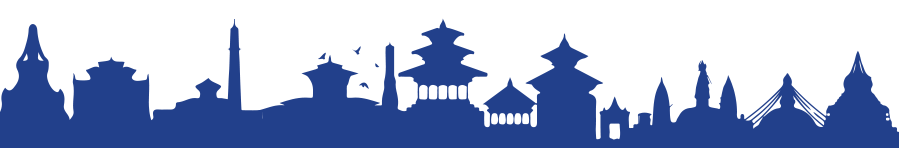
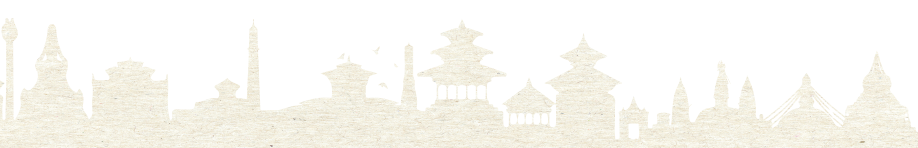
new added

diff --git a/manav_dharma/manav_dharma/static/assets/css/style.css b/manav_dharma/manav_dharma/static/assets/css/style.css
@@ -455,7 +455,7 @@ footer {
 .gray-layer:before {background-color: #f8f8f8}
 .gray-layer2:before {background-color: #fbfbfb}
 .gray-layer3:before {background-color: #eff4f1}
-.dark-layer:before {background-color: #28448c;}
+.dark-layer:before {background-color: #efebdb;}
 .dark-layer2:before {background-color: var(--color1);}
 .dark-layer3:before {background-color: var(--color7);}
 .blue-layer:before {background-color: var(--color1);}
@@ -2656,6 +2656,7 @@ span.proj-loc i {font-style: normal;}
   position: absolute;
   left: 0;
   top: 0;
+  color: #ec1c24;
   line-height: inherit;
   font-size: 14px;
 }
@@ -2665,9 +2666,9 @@ span.proj-loc i {font-style: normal;}
   padding-left: 1.5625rem;
 }
 .dark-layer .widget-title,
-.black-layer .widget-title {color: #fff;}
-.dark-layer .widget p {color: #f0f0f0;}
-.dark-layer .widget ul li {color: #ddd;}
+.black-layer .widget-title {color: #ec1c24;}
+.dark-layer .widget p {color: #24448c;}
+.dark-layer .widget ul li {color: #24448c;}
 .black-layer .widget ul li {color: #eaeaea;}
 .widget ul.cont-info-list2 li {line-height: 1.625rem;}
 .widget ul.cont-info-list2 li i {

diff --git a/manav_dharma/templates/includes/footer.html b/manav_dharma/templates/includes/footer.html
@@ -8,7 +8,11 @@
                     <div class="col-md-12 col-sm-12 col-lg-3">
                         <div class="widget w-100">
                             <div class="logo"><h1 class="mb-0"><a href="index.html" title="Home"><img class="img-fluid" src="{% static 'assets/images/logos.png' %}" alt="Logo" srcset="{% static 'assets/images/logos.png' %}"></a></h1></div>
-                            <p class="mb-0">Lorem ipsum dolor sit amet, coteudtu sicing elit, sed do eiusmod tempor inc dntut labore et adipi.</p>
+                            <p class="mb-0">Wise are those who never
+                                fight over symbols but
+                                understand the essence of all
+                                religions which are one and
+                                the same for everyone.</p>
                         </div>
                     </div>
                     <div class="col-md-12 col-sm-12 col-lg-9">
